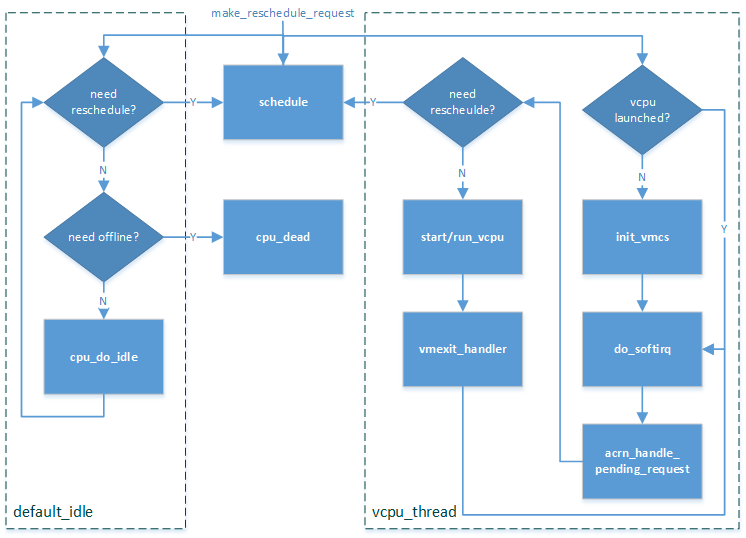
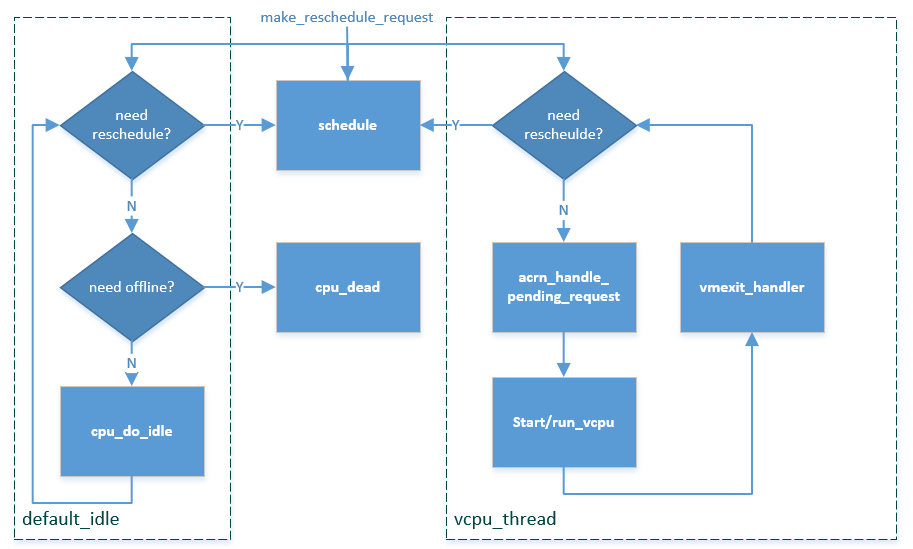
document: update HLD for cpu virtualization
updated this chapter based on latest master

Tracked-On: #3882

diff --git a/doc/developer-guides/hld/hv-cpu-virt.rst b/doc/developer-guides/hld/hv-cpu-virt.rst
@@ -22,44 +22,55 @@ Based on Intel VT-x virtualization technology, ACRN emulates a virtual CPU
    and guest execution.  (See `Static CPU Partitioning`_ for more
    information.)
 
--  **simple schedule**: only two thread loops are maintained for a CPU -
+-  **core sharing** (to be added): two or more vCPUs are sharing one
+   physical CPU (pCPU), more complicated context switch is needed
+   between different vCPUs' switching, and provides flexible computing
+   resources sharing for low performance demand vCPU tasks.
+   (See `Flexible CPU Sharing`_ for more information.)
+
+-  **simple schedule**: a well-designed scheduler framework allows ACRN
+   to adopt different scheduling policy, for example - noop & round-robin:
+
+   noop scheduler - only two thread loops are maintained for a CPU -
    vCPU thread and default idle thread. A CPU runs most of the time in
    the vCPU thread for emulating a guest CPU, switching between VMX root
    mode and non-root mode. A CPU schedules out to default idle when an
    operation needs it to stay in VMX root mode, such as when waiting for
    an I/O request from DM or ready to destroy.
 
+   round-robin scheduler (to be added) - allow more vcpu thread loops
+   running on a CPU. A CPU switches among different vCPU thread and default
+   idle thread, upon running out corresponding timeslice or necessary
+   scheduling out such as waiting for an I/O request. A vCPU could yield
+   itself as well, for example when it executes "PAUSE" instruction.
+
+
 Static CPU Partitioning
 ***********************
 
 CPU partitioning is a policy for mapping a virtual
-CPU (VCPU) to a physical CPU. The current ACRN implementation forces a
-static 1:1 mapping between VCPUs and physical CPUs and does
-not support multiple VCPUs running on a physical CPU and does not
-support VCPU migration from one physical CPU to another.
+CPU (VCPU) to a physical CPU. To enable this, the ACRN hypervisor could
+configure "noop scheduler" as the schedule policy for this physical CPU.
 
-ACRN forces a fixed 1:1 mapping between a VCPU and a physical CPU when
-creating a VCPU for the guest Operating System. This makes the VCPU
+ACRN then forces a fixed 1:1 mapping between a VCPU and this physical CPU
+when creating a VCPU for the guest Operating System. This makes the VCPU
 management code much simpler.
 
-An array is used to track the physical CPU allocation information. When
-a VCPU is created, we query, allocate, and update the array to map the
-VCPU to an available physical CPU.
+``vcpu_affinity`` in ``vm config`` help to decide which physical CPU a
+VCPU in a VM affine to, then finalize the fixed mapping.
 
-The physical CPU number assignment for each guest is pre-defined. For
-example, on a platform with four CPU cores, one physical CPU is assigned
-to run the Service Operating System (SOS) and other three physical CPUs
-are assigned to run the User Operating System (UOS) instances.
+Flexible CPU Sharing
+********************
 
-.. note::
+This is a TODO feature.
+To enable CPU sharing, the ACRN hypervisor could configure "round-robin
+scheduler" as the schedule policy for corresponding physical CPU.
 
-   To improvement SOS boot time, all physical CPUs are assigned to the SOS
-   during the SOS boot. Afterward, the physical CPUs defined for the UOS
-   are allocated by the Device Model (DM) by running the launch_uos.sh
-   script.
+``vcpu_affinity`` in ``vm config`` help to decide which physical CPU two
+or more VCPUs from different VMs are sharing.
 
-CPU management in SOS
-=====================
+CPU management in SOS under static CPU partitioning
+===================================================
 
 With ACRN, all ACPI table entries are pass-thru to the SOS, including
 the Multiple Interrupt Controller Table (MADT). The SOS sees all
@@ -79,80 +90,44 @@ Here is an example flow of CPU allocation on a multi-core platform.
 
    CPU allocation on a multi-core platform
 
+CPU management in SOS under flexing CPU sharing
+===============================================
+
+As all SOS CPUs could share with different UOSs, ACRN can still pass-thru
+MADT to Service VM, and the SOS is still able to see all physcial CPUs.
+
+But as under CPU sharing, SOS does not need offline/release the physical
+CPUs intended for UOS use.
+
 CPU management in UOS
 =====================
 
-From the UOS point of view, CPU management is very simple, using a
-hypercall to create the virtual CPUs. Here's an example from from the DM
-code:
+From the UOS point of view, CPU management is very simple - when DM do
+hypercall to create VM, the hypervisor will create its all virtual CPUs
+based on the configuration in this UOS VM's ``vm config``.
 
-.. code-block:: c
+As mentioned in previous description, ``vcpu_affinity`` in ``vm config``
+tells which physical CPUs a VM's VCPU will use, and the scheduler policy
+associated with corresponding physical CPU decide this VCPU will run in
+partition or sharing mode.
 
-   int vm_create_vcpu(struct vmctx *ctx, uint16_t vcpu_id)
-   {
-      struct acrn_create_vcpu cv;
-      int error;
-
-      bzero(&cv, sizeof(struct acrn_create_vcpu));
-      cv.vcpu_id = vcpu_id;
-      error = ioctl(ctx->fd, IC_CREATE_VCPU, &cv);
-      return error;
-   }
-
-The VHM will respond to the ioctl:
-
-.. code-block:: c
-
-   case IC_CREATE_VCPU: {
-      struct acrn_create_vcpu cv;
-
-      if (copy_from_user(&cv, (void *)ioctl_param,
-                         sizeof(struct acrn_create_vcpu)))
-         return -EFAULT;
-
-      ret = acrn_hypercall2(HC_CREATE_VCPU, vm->vmid,
-                            virt_to_phys(&cv));
-      if (ret < 0) {
-         pr_err("vhm: failed to create vcpu %d!\\n",
-                 cv.vcpu_id);
-         return -EFAULT;
-      }
-
-      atomic_inc(&vm->vcpu_num);
-      return ret;
-   }
-
-The hypercall ``HC_CREATE_VCPU`` is handled in the hypervisor with
-the parameter:
-
-.. doxygenstruct:: acrn_create_vcpu
-   :project: Project ACRN
 
 CPU assignment management in HV
 ===============================
 
-When we create a VCPU in the hypervisor, an available physical CPU is
-picked and marked as used. When we destroy the VCPU, we mark the
-physical CPU as available again.
+The physical CPU assignment is pre-defined by ``vcpu_affinity`` in
+``vm config``, necessary sanitize check should be done to ensure
 
-.. figure:: images/static-core-image1.png
-   :width: 600px
-   :align: center
-   :name: static-core-cpu-assign
+-  in one VM, each VCPU will have only one prefer physical CPU
 
-   HV CPU Assignment Management
+-  in one VM, its VCPUs will not share same physical CPU
 
-#. ``allocate_pcpu()`` queries the physical CPU allocation info to get an
-   available physical CPU and marks physical CPU as not available
-#. Physical CPU info is passed to ``create_vcpu()`` and a mapping is built
-   between the physical CPU and virtual CPU
-#. When the VCPU is destroyed VCPU, the physical CPU is passed to the
-   ``free_pcpu()`` function
-#. ``free_pcpu()`` marks the physical CPU available again.
+-  in one VM, if a VCPU is using "noop scheduler", corresponding
+   physical CPU will not be shared with any other VM's VCPU
 
 Currently, the ACRN hypervisor does not support virtual CPU migration to
 different physical CPUs. This means no changes to the virtual CPU to
-physical CPU can happen without first calling destroy_vcpu.
+physical CPU can happen without first calling offline_vcpu.
 
 
 .. _vCPU_lifecycle:
@@ -163,17 +138,19 @@ vCPU Lifecycle
 A vCPU lifecycle is shown in :numref:`hv-vcpu-transitions` below, where
 the major states are:
 
--  **VCPU_INIT**: vCPU is in an initialized state, and its associated CPU
-   is running in default_idle
+-  **VCPU_INIT**: vCPU is in an initialized state, and its vCPU thread
+   is not ready to run on its associated CPU
 
--  **VCPU_RUNNING**: vCPU is running, and its associated CPU is running in
-   vcpu_thread
+-  **VCPU_RUNNING**: vCPU is running, and its vCPU thread is ready (in
+   the queue) or running on its associated CPU
 
--  **VCPU_PAUSED**: vCPU is paused, and its associated CPU is running in
-   default_idle
+-  **VCPU_PAUSED**: vCPU is paused, and its vCPU thread is not running
+   on its associated CPU
 
--  **VPCU_ZOMBIE**: vCPU is being destroyed, and its associated CPU
-   is running in default_idle
+-  **VPCU_ZOMBIE**: vCPU is being offline, and its vCPU thread is not
+   running on its associated CPU
+
+-  **VPCU_OFFLINE**: vCPU is offlined
 
 .. figure:: images/hld-image17.png
    :align: center
@@ -196,30 +173,29 @@ lifecycle:
 .. doxygenfunction:: reset_vcpu
    :project: Project ACRN
 
-.. doxygenfunction:: run_vcpu
+.. doxygenfunction:: offline_vcpu
    :project: Project ACRN
 
 
-vCPU Scheduling
-***************
+vCPU Scheduling under static CPU partitioning
+*********************************************
 
 .. figure:: images/hld-image35.png
    :align: center
    :name: hv-vcpu-schedule
 
-   ACRN vCPU scheduling flow
+   ACRN vCPU scheduling flow under static CPU partitioning
 
-As describes in the CPU virtualization overview, ACRN implements a simple
-scheduling mechanism based on two threads: vcpu_thread and
-default_idle. A vCPU with VCPU_RUNNING state always runs in
-a vcpu_thread loop, meanwhile a vCPU with VCPU_PAUSED or VCPU_ZOMBIE
-state runs in default_idle loop. The detail behaviors in
-vcpu_thread and default_idle threads are illustrated in
-:numref:`hv-vcpu-schedule`:
+As describes in the CPU virtualization overview, if under static
+CPU partitioning, ACRN implements a simple scheduling mechanism
+based on two threads: vcpu_thread and default_idle. A vCPU with
+VCPU_RUNNING state always runs in a vcpu_thread loop, meanwhile
+a vCPU with VCPU_PAUSED or VCPU_ZOMBIE state runs in default_idle
+loop. The detail behaviors in vcpu_thread and default_idle threads
+are illustrated in :numref:`hv-vcpu-schedule`:
 
--  The **vcpu_thread** loop will try to initialize a vCPU's vmcs during
-   its first launch and then do the loop of handling its associated
-   softirq, vm exits, and pending requests around the VM entry/exit.
+-  The **vcpu_thread** loop will do the loop of handling vm exits,
+   and pending requests around the VM entry/exit.
    It will also check the reschedule request then schedule out to
    default_idle if necessary. See `vCPU Thread`_ for more details
    of vcpu_thread.
@@ -247,7 +223,7 @@ Some example scenario flows are shown here:
 
 -  **During shutting down a VM**: *pause_vm* function call makes a vCPU
    running in *vcpu_thread* to schedule out to *default_idle*. The
-   following *reset_vcpu*  and *destroy_vcpu* de-init and then destroy
+   following *reset_vcpu*  and *offline_vcpu* de-init and then offline
    this vCPU instance.
 
 -  **During IOReq handling**: after an IOReq is sent to DM for emulation, a
@@ -256,6 +232,11 @@ Some example scenario flows are shown here:
    complete the emulation for this IOReq, it calls
    *hcall_notify_ioreq_finish->resume_vcpu* and makes the vCPU
    schedule back to *vcpu_thread* to continue its guest execution.
+
+vCPU Scheduling under flexible CPU sharing
+******************************************
+
+To be added.
 
 vCPU Thread
 ***********
@@ -268,27 +249,22 @@ The vCPU thread flow is a loop as shown and described below:
    ACRN vCPU thread
 
 
-1. Check if this is the vCPU's first launch. If yes, do VMCS
-   initialization. (See `VMX Initialization`_.)
+1. Check if *vcpu_thread* needs to schedule out to *default_idle* or
+   other *vcpu_thread* by reschedule request. If needed, then schedule
+   out to *default_idle* or other *vcpu_thread*.
 
-2. Handle softirq by calling *do_softirq*.
-
-3. Handle pending request by calling *acrn_handle_pending_request*.
+2. Handle pending request by calling *acrn_handle_pending_request*.
    (See `Pending Request Handlers`_.)
 
-4. Check if *vcpu_thread* needs to schedule out to *default_idle* by
-   reschedule request. If needed, then schedule out to
-   *default_idle*.
-
-5. VM Enter by calling *start/run_vcpu*, then enter non-root mode to do
+3. VM Enter by calling *start/run_vcpu*, then enter non-root mode to do
    guest execution.
 
-6. VM Exit from *start/run_vcpu* when guest trigger vm exit reason in
+4. VM Exit from *start/run_vcpu* when guest trigger vm exit reason in
    non-root mode.
 
-7. Handle vm exit based on specific reason.
+5. Handle vm exit based on specific reason.
 
-8. Loop back to step 2.
+6. Loop back to step 1.
 
 vCPU Run Context
 ================
@@ -402,6 +378,14 @@ that will trigger an error message and return without handling:
      - external_interrupt_vmexit_handler
      - External interrupt handler for physical interrupt happening in non-root mode
 
+   * - VMX_EXIT_REASON_TRIPLE_FAULT
+     - triple_fault_vmexit_handler
+     - Handle triple fault from vcpu
+
+   * - VMX_EXIT_REASON_INIT_SIGNAL
+     - init_signal_vmexit_handler
+     - Handle INIT signal from vcpu
+
    * - VMX_EXIT_REASON_INTERRUPT_WINDOW
      - interrupt_window_vmexit_handler
      - To support interrupt window if VID is disabled
@@ -474,7 +458,7 @@ A bitmap in the vCPU structure lists the different requests:
    #define ACRN_REQUEST_EVENT 1U
    #define ACRN_REQUEST_EXTINT 2U
    #define ACRN_REQUEST_NMI 3U
-   #define ACRN_REQUEST_TMR_UPDATE 4U
+   #define ACRN_REQUEST_EOI_EXIT_BITMAP_UPDATE 4U
    #define ACRN_REQUEST_EPT_FLUSH 5U
    #define ACRN_REQUEST_TRP_FAULT 6U
    #define ACRN_REQUEST_VPID_FLUSH 7U /* flush vpid tlb */
@@ -489,6 +473,8 @@ running). See :ref:`vcpu-request-interrupt-injection` for details.
 
    void vcpu_make_request(struct vcpu *vcpu, uint16_t eventid)
    {
+      uint16_t pcpu_id = pcpuid_from_vcpu(vcpu);
+
       bitmap_set_lock(eventid, &vcpu->arch_vcpu.pending_req);
       /*
        * if current hostcpu is not the target vcpu's hostcpu, we need
@@ -499,8 +485,8 @@ running). See :ref:`vcpu-request-interrupt-injection` for details.
        *  scheduling, we need change here to determine it target vcpu is
        *  VMX non-root or root mode
        */
-      if (get_cpu_id() != vcpu->pcpu_id) {
-              send_single_ipi(vcpu->pcpu_id, VECTOR_NOTIFY_VCPU);
+      if (get_cpu_id() != pcpu_id) {
+              send_single_ipi(pcpu_id, VECTOR_NOTIFY_VCPU);
       }
    }
 
@@ -541,11 +527,10 @@ request as shown below.
      - vcpu_inject_nmi
      - program VMX_ENTRY_INT_INFO_FIELD directly
 
-   * - ACRN_REQUEST_TMR_UPDATE
-     - Request for update vIOAPIC TMR, which also leads to vLAPIC
-       VEOI bitmap update for level triggered vector
-     - vlapic_reset_tmr or vioapic_indirect_write change trigger mode in RTC
-     - vioapic_update_tmr
+   * - ACRN_REQUEST_EOI_EXIT_BITMAP_UPDATE
+     - Request for update VEOI bitmap update for level triggered vector
+     - vlapic_reset_tmr or vlapic_set_tmr change trigger mode in RTC
+     - vcpu_set_vmcs_eoi_exit
 
    * - ACRN_REQUEST_EPT_FLUSH
      - Request for EPT flush
@@ -575,22 +560,21 @@ entry control and exit control, as shown in the table below.
 
 The table briefly shows how each field got configured.
 The guest state field is critical for a guest CPU start to run
-based on different CPU modes. One structure *boot_ctx* is used to pass
-the necessary initialized guest state to VMX, used only for the BSP of a
-guest.
+based on different CPU modes.
 
 For a guest vCPU's state initialization:
 
--  If it's BSP, the guest state configuration is based on *boot_ctx*,
-   which could be initialized on different objects:
+-  If it's BSP, the guest state configuration is done in SW load,
+   which could be initialized by different objects:
 
-   -  SOS BSP based on SBL: booting up context saved at the entry of
-      system boot up
+   -  SOS BSP: hypervisor will do context initialization in different
+      SW load based on different boot mode
+
 
    -  UOS BSP: DM context initialization through hypercall
 
 -  If it's AP, then it will always start from real mode, and the start
-       vector will always come from vlapic INIT-SIPI emulation. 
+       vector will always come from vlapic INIT-SIPI emulation.
 
 .. doxygenstruct:: acrn_vcpu_regs
    :project: Project ACRN
